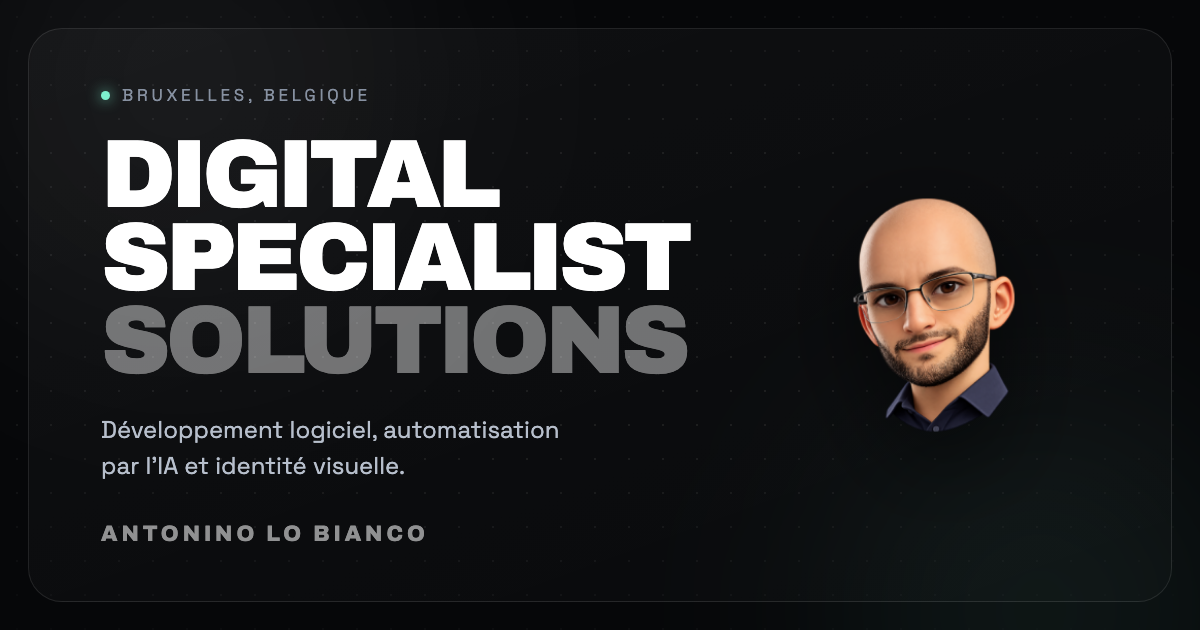
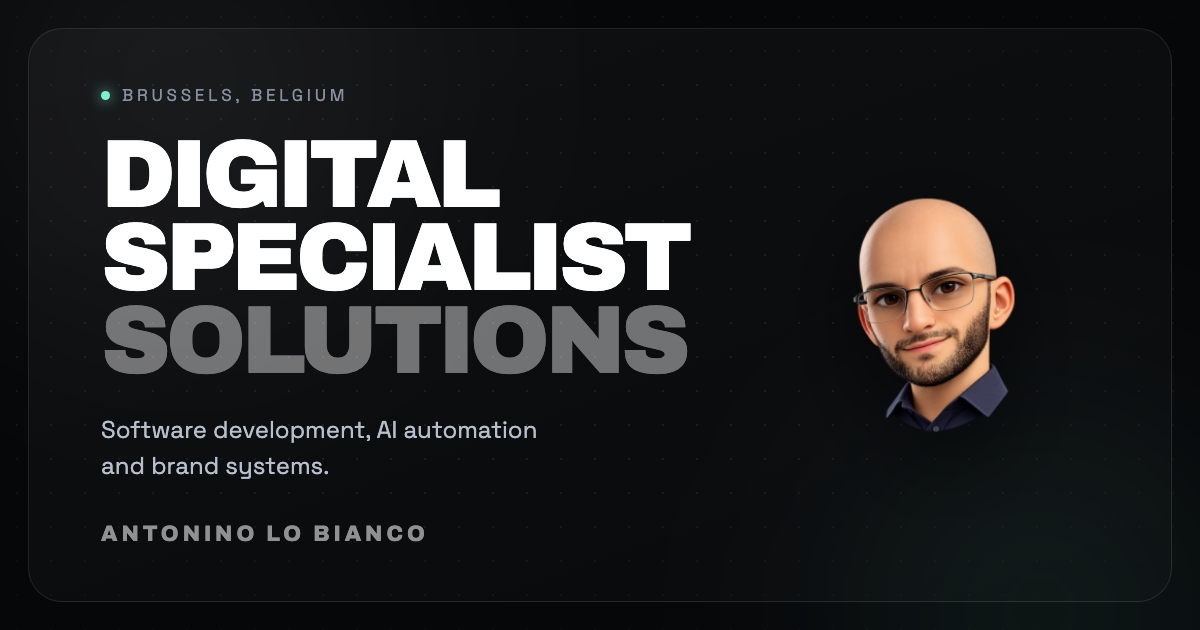
Textes anglais sans virgule avant « and », vignette de partage en anglais

Changed region(s): [[0.0617, 0.6635, 0.4625, 0.6937], [0.0617, 0.7238, 0.3392, 0.754], [0.185, 0.1206, 0.3083, 0.181]]

diff --git a/src/lib/i18n.ts b/src/lib/i18n.ts
@@ -78,7 +78,7 @@ const EN: Copy = {
   status: "Open for projects",
   hero: {
     titleLines: ["Digital", "Specialist", "Solutions"],
-    lede: "I build the site, I teach the robots to handle the boring bits, and I make the whole thing look like someone actually cared. Three jobs, one guy, zero group chats.",
+    lede: "I build the site, I teach the robots to handle the boring bits and I make the whole thing look like someone actually cared. Three jobs, one guy, zero group chats.",
     seeWork: "See the work →",
     startProject: "Start a project",
   },

diff --git a/src/lib/triage.ts b/src/lib/triage.ts
@@ -166,7 +166,7 @@ const REPONSES: Record<Categorie, { fr: string; en: string }> = {
   },
   question: {
     fr: "Bonjour, merci pour votre question. Voici ce que je peux vous dire en quelques lignes, et je reste disponible si vous souhaitez qu'on approfondisse.",
-    en: "Hello, thanks for your question. Here's a short answer, and I'm happy to go into more detail if useful.",
+    en: "Hello, thanks for your question. Here's a short answer and I'm happy to go into more detail if useful.",
   },
   spam: {
     fr: "Aucune réponse nécessaire.",
